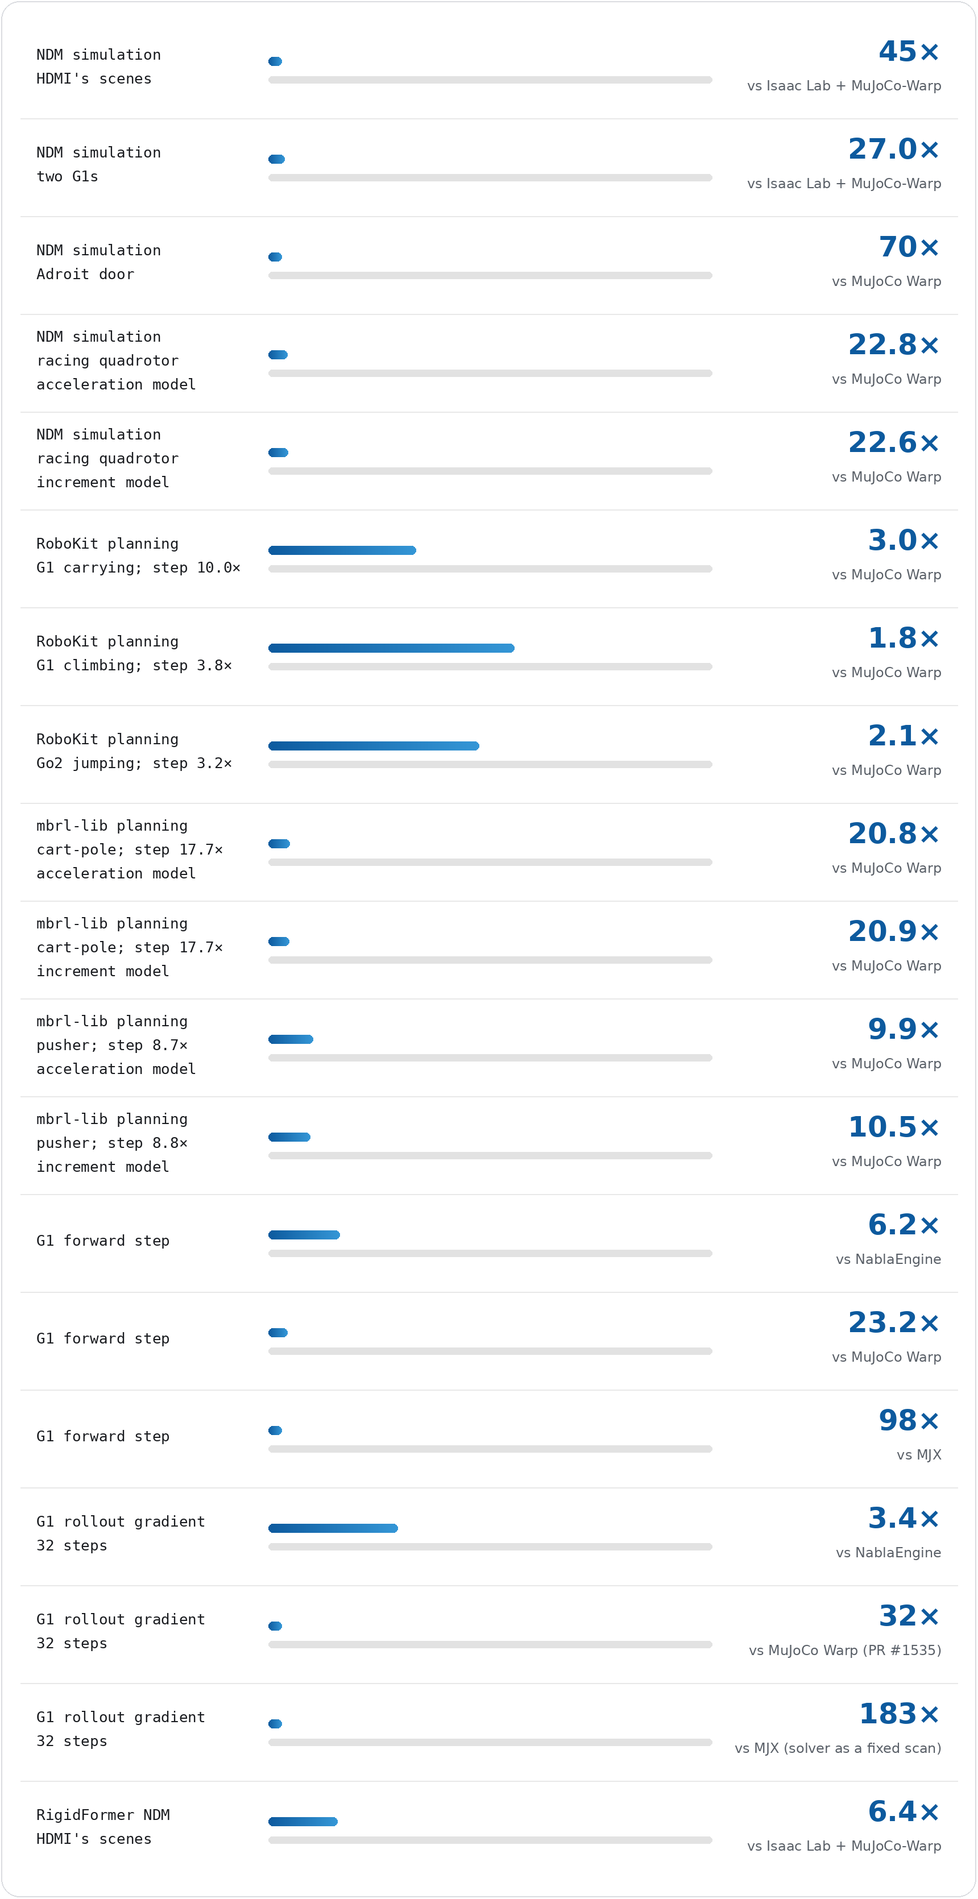
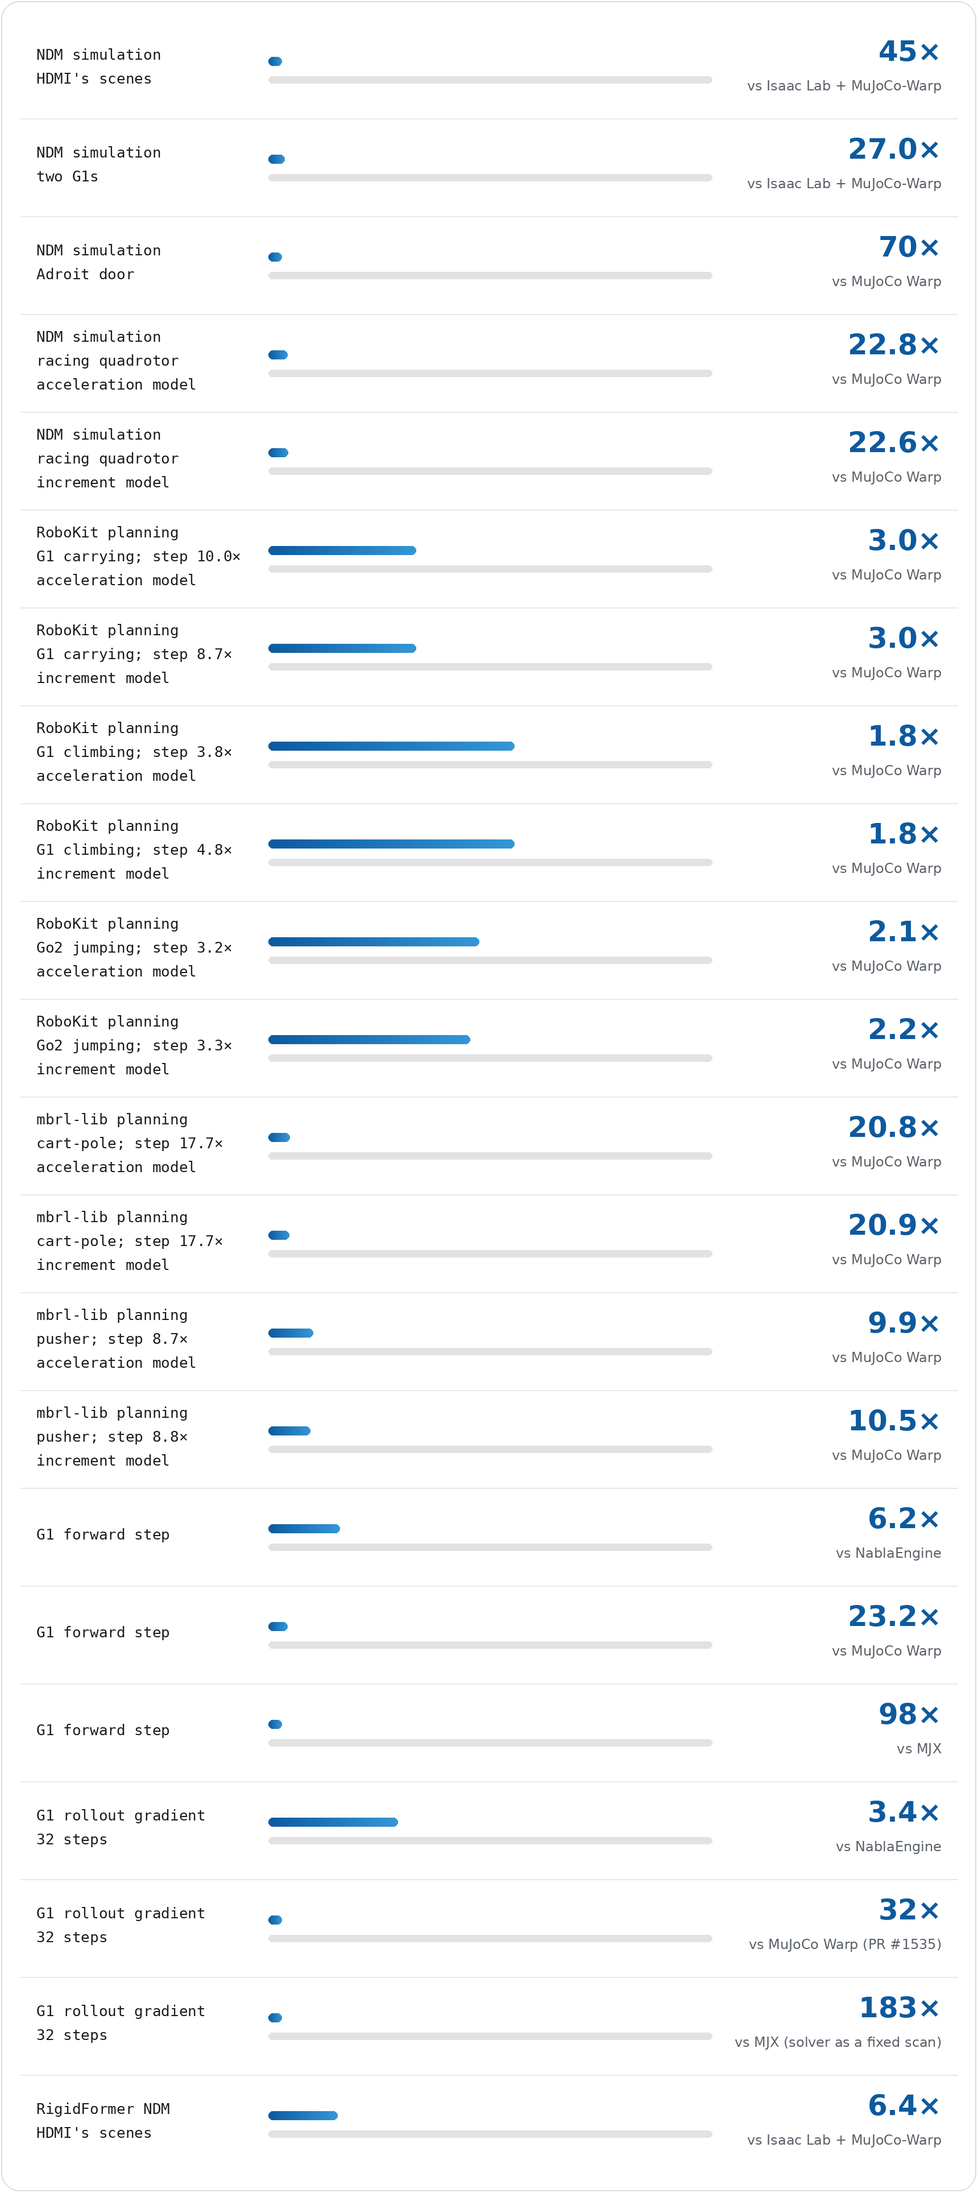
RoboKit: SuperMimic's increment model beside SuperTrack's acceleration model, level (the same recipe and plans: 20 of 20 per task for each, planning within 1 s; the step timed for both); the speed chart with both models' rows; every read listed on the results page

diff --git a/tools/make_speedup_chart.py b/tools/make_speedup_chart.py
@@ -13,8 +13,9 @@ FONT_DIR = "/usr/share/fonts/truetype/dejavu/"
 # but the Adroit door's, at 16,384 worlds, SuperTrack's model as a bf16 copy against MuJoCo Warp (benchmarks/adroit_door/results_a100.md),
 # the racing quadrotor's: the fused step in fp32 with the network as one kernel, on the acceleration and on the increment model, against MuJoCo Warp
 # (benchmarks/quadrotor_racing_tracking/results_a100.md),
-# RoboKit's, whose bars are its examples' whole planning time at the planner's own worlds, the median over twenty plans
-# (planner seeds 0-9, twice), with the simulation step's speedup in the second line (benchmarks/robokit_ndm/results.md), and mbrl-lib's, whose bars
+# RoboKit's, whose bars are its examples' whole planning time at the planner's own worlds on the acceleration and on the
+# increment model, the median over twenty plans (planner seeds 0-9, twice), with the simulation step's speedup in the second
+# line and the model in a third (benchmarks/robokit_ndm/results.md), and mbrl-lib's, whose bars
 # are the planner's time per executed step on the acceleration and on the increment model (timed in one session), the median
 # over three planner seeds, with the step's speedup at 4,096 worlds in the second line and the model in a third, after a
 # newline (benchmarks/mbrl_lib/results.md)
@@ -24,9 +25,12 @@ ROWS = [
     ("NDM simulation", "Adroit door", 69.7, "vs MuJoCo Warp"),
     ("NDM simulation", "racing quadrotor\nacceleration model", 22.8, "vs MuJoCo Warp"),
     ("NDM simulation", "racing quadrotor\nincrement model", 22.6, "vs MuJoCo Warp"),
-    ("RoboKit planning", "G1 carrying; step 10.0×", 3.0, "vs MuJoCo Warp"),
-    ("RoboKit planning", "G1 climbing; step 3.8×", 1.8, "vs MuJoCo Warp"),
-    ("RoboKit planning", "Go2 jumping; step 3.2×", 2.1, "vs MuJoCo Warp"),
+    ("RoboKit planning", "G1 carrying; step 10.0×\nacceleration model", 3.0, "vs MuJoCo Warp"),
+    ("RoboKit planning", "G1 carrying; step 8.7×\nincrement model", 3.0, "vs MuJoCo Warp"),
+    ("RoboKit planning", "G1 climbing; step 3.8×\nacceleration model", 1.8, "vs MuJoCo Warp"),
+    ("RoboKit planning", "G1 climbing; step 4.8×\nincrement model", 1.8, "vs MuJoCo Warp"),
+    ("RoboKit planning", "Go2 jumping; step 3.2×\nacceleration model", 2.1, "vs MuJoCo Warp"),
+    ("RoboKit planning", "Go2 jumping; step 3.3×\nincrement model", 2.2, "vs MuJoCo Warp"),
     ("mbrl-lib planning", "cart-pole; step 17.7×\nacceleration model", 20.8, "vs MuJoCo Warp"),
     ("mbrl-lib planning", "cart-pole; step 17.7×\nincrement model", 20.9, "vs MuJoCo Warp"),
     ("mbrl-lib planning", "pusher; step 8.7×\nacceleration model", 9.9, "vs MuJoCo Warp"),

diff --git a/README.md b/README.md
@@ -66,7 +66,7 @@ MuJoCo model.
 | NDM simulation: the Adroit door ([details](benchmarks/adroit_door/results_a100.md#the-world-model-as-the-simulator)) | world-steps per second at 16,384 worlds: SuperTrack's acceleration model as a bf16 copy, 27.62 M against MuJoCo Warp's 0.396 M (69.7x); SuperMimic's increment model 27.14 M against 0.422 M (64.3x); 1,629x / 1,600x the contributed native MuJoCo collector on eight CPU cores (16,962 world-steps/s). The bf16 step is 64 % / 66 % matrix products, the rest compiled elementwise kernels | one A100 40GB SXM4 |
 | NDM simulation: the racing quadrotor ([details](benchmarks/quadrotor_racing_tracking/results_a100.md#the-world-model-as-the-simulator)) | world-steps per second at 4,096 worlds, the fused step in fp32 (TF32 products) with the network as one kernel: SuperTrack's acceleration model 74.3 M against MuJoCo Warp's 3.26 M (22.8x); SuperMimic's increment model 73.7 M against 3.27 M (22.6x); with the network compiled layer by layer 19.6x / 19.0x. The network is 85 % of the step | one A100 40GB SXM4 |
 | the G1's forward step and the gradient of a 32-step rollout ([details](benchmarks/ndm_speed/results.md)) | SuperTrack's MLP world model against NablaEngine, MuJoCo Warp with the adjoint of its pull request #1535 and MJX, each in its faster setting | one A100 40GB |
-| RoboKit planning ([details](benchmarks/robokit_ndm/results.md)) | the example's whole planning time at the planner's own worlds, the median over twenty plans (planner seeds 0-9, twice); the simulation step's speedup beside the task | one A100 40GB SXM4 |
+| RoboKit planning ([details](benchmarks/robokit_ndm/results.md)) | the example's whole planning time at the planner's own worlds on the acceleration and on the increment model, the median over twenty plans (planner seeds 0-9, twice); the simulation step's speedup beside the task | one A100 40GB SXM4 |
 | mbrl-lib planning ([details](benchmarks/mbrl_lib/results.md)) | the planner's time per executed step on the acceleration and on the increment model, timed in one session, the median over three planner seeds; the step's speedup at 4,096 worlds beside the task | one A100 80GB SXM4 |
 
 The Adroit door: MuJoCo Warp without no-slip and without multi-contact or native CCD, which it refuses with this model's
@@ -103,7 +103,7 @@ the position within 20 mm. Commands: [Recommended settings](#-recommended-settin
 |  | ⏱ time to the target, not engineered | `train_door_full --method supermimic --door-latch-offset 0.3`, the contributed implementation | 99 % of the starts open after **13.1 ± 7.9 min** (seeds 0-2, A100 40GB) |
 | **[Muscles](#muscle-actuated-character)**, MuscleVAE's character | 🎯 most accurate | `muscles-supertrack-rf` (the body-token RigidFormer, width 128, 2 blocks), 3 h on an A100 40GB PCIe | MPJPE **34.9 ± 0.7 mm** in the root frame, episodes ended 0.0004 ± 0.0008 (seeds 1-3); with the MLP, `muscles-supertrack` 38.1 ± 1.0 mm (four tuning rounds to the RigidFormer's nine) |
 |  | 🚀 fastest | not compared yet | |
-| **[NDM in RoboKit's planner](#ndms-in-robokits-planner)**, G1 box carrying / climbing, Go2 jumping, one A100 40GB | ⏱ planning time, not engineered | SuperTrack's acceleration model, MLP, as a bf16 copy | planning **3.0x / 1.8x / 2.1x** faster than on MuJoCo Warp (9 → 3, 7 → 4, 65 → 31 s); **20 of 20** plans pass on each task, MuJoCo Warp's 10 of 10 ([results](benchmarks/robokit_ndm/results.md)) |
+| **[NDM in RoboKit's planner](#ndms-in-robokits-planner)**, G1 box carrying / climbing, Go2 jumping, one A100 40GB | ⏱ planning time, not engineered | SuperTrack's acceleration model and SuperMimic's increment model, MLPs as bf16 copies, level | planning **3.0x / 1.8x / 2.1x** and **3.0x / 1.8x / 2.2x** faster than on MuJoCo Warp (9 → 3 / 3, 7 → 4 / 4, 65 → 31 / 30 s); **20 of 20** plans pass on each task for each, MuJoCo Warp's 10 of 10 ([results](benchmarks/robokit_ndm/results.md)) |
 | **[NDM in mbrl-lib's planner](#ndms-in-mbrl-libs-planner)**, PETS' cart-pole / pusher, one A100 80GB | ⏱ planning time, not engineered | SuperTrack's acceleration model and SuperMimic's increment model, MLPs as bf16 copies, level | planning **20.8x / 9.9x** and **20.9x / 10.5x** faster than on MuJoCo Warp (0.314 → 0.0151 / 0.0150 s, 0.300 → 0.0303 / 0.0286 s a step), 103.8x / 31.3x and 104.3x / 33.2x faster than mbrl-lib's CPU pool; 30 of 30 / 28 of 30 plans at the bar for each ([results](benchmarks/mbrl_lib/results.md)) |
 | **[NDM as the simulator](#adroit-door-tracking)**, the Adroit door, 16,384 worlds on an A100 40GB SXM4 | 🚀 fastest | SuperTrack's acceleration model, MLP, as a bf16 copy | **27.62 M world-steps/s**, 69.7x MuJoCo Warp's 0.396 M and 1,629x the contributed collector on eight CPU cores; SuperMimic's increment model 27.14 M, 64.3x ([results](benchmarks/adroit_door/results_a100.md#the-world-model-as-the-simulator)) |
 | **[NDM as the simulator](#quadrotor-trajectory-tracking)**, the racing quadrotor, 4,096 worlds on an A100 40GB SXM4 | ⏱ throughput, not engineered | SuperTrack's acceleration model and SuperMimic's increment model, MLPs, the fused step in fp32, the network as one kernel | **74.3 M** and **73.7 M world-steps/s**, 22.8x and 22.6x MuJoCo Warp's 3.26 M / 3.27 M; 34.2x / 34.1x at 1,024 worlds, 11.5x at 65,536 ([results](benchmarks/quadrotor_racing_tracking/results_a100.md#the-world-model-as-the-simulator)) |
@@ -170,7 +170,7 @@ What the experiments showed (details under [Ablations](#-ablations) and [Trainin
 - **[2026-11] NDMs in planners:** a world model scores the planner's candidates in place of the physics steps. On an
   A100, three of [RoboKit's](#ndms-in-robokits-planner) examples (G1 box carrying, G1 climbing, Go2 jumping) plan
   1.8-3.0x faster than on MuJoCo Warp, every plan passing, and [mbrl-lib's](#ndms-in-mbrl-libs-planner) cart-pole and
-  pusher (PETS' settings) 20.8-20.9x and 9.9-10.5x faster on either world model.
+  pusher (PETS' settings) 20.8-20.9x and 9.9-10.5x faster, on either world model.
 - **[2026-11] Training speed:** what makes training fast, measured and offered as options: a recipe and systems options
   ([BlinkMimic's](#blinkmimics-options)), multi-GPU layouts ([XMimic's](docs/algorithms/xmimic.md));
   [time to return 0.82](#training-speed), with [NablaMimic](docs/algorithms/nablamimic.md)'s own code timed beside.
@@ -981,22 +981,22 @@ and each plan executes on MuJoCo Warp. Planning time is the simulator's steps pl
 
 | goal | configuration | result |
 |---|---|---|
-| planning time, not engineered | SuperTrack's acceleration model, MLP, as a bf16 copy | planning 3.0x / 1.8x / 2.1x faster than on MuJoCo Warp; 20 of 20 plans pass on each task |
+| planning time, not engineered | SuperTrack's acceleration model and SuperMimic's increment model, MLPs as bf16 copies, level | planning 3.0x / 1.8x / 2.1x and 3.0x / 1.8x / 2.2x faster than on MuJoCo Warp; 20 of 20 plans pass on each task for each |
 
 G1 box carrying / G1 climbing / Go2 jumping; one A100 40GB SXM4, the median over the planner's seeds 0-9 run twice, one fit
-of the world model per task (fit seed 0) ([details](benchmarks/robokit_ndm/results.md)).
+of each world model per task (fit seed 0) ([details](benchmarks/robokit_ndm/results.md)).
 
-**In short:** on SuperTrack's acceleration model the three examples plan 1.8-3.0x faster than on MuJoCo Warp, and every
-plan passes the example's own check.
+**In short:** on either world model the three examples plan 1.8-3.0x faster than on MuJoCo Warp, and every plan passes the
+example's own check; the two are level (their planning times within 1 s).
 
 <p align="center"><img src="docs/media/robokit/grid.webp" alt="RoboKit's G1 box carrying, G1 climbing and Go2 jumping, planned on the world model" width="100%"/></p>
 <p align="center"><sub>In translucent blue, the example's reference: the motion the G1 tracks and the box's, and Go2's foot targets. G1 box carrying tracks an OMOMO clip: for non-commercial illustration only (<a href="NOTICE">see NOTICE</a>).</sub></p>
 
-| task | simulation step | planning time | plans that pass |
+| task | simulation step, SuperTrack's / SuperMimic's model | planning time, SuperTrack's / SuperMimic's model | plans that pass, SuperTrack's / SuperMimic's model |
 |---|---|---|---|
-| G1 box carrying | 1.81 → 0.18 ms (10.0x) | 9 → 3 s (3.0x) | 20 of 20 (MuJoCo Warp 10 of 10) |
-| G1 climbing | 1.32 → 0.35 ms (3.8x) | 7 → 4 s (1.8x) | 20 of 20 (MuJoCo Warp 10 of 10) |
-| Go2 jumping | 0.69 → 0.21 ms (3.2x) | 65 → 31 s (2.1x) | 20 of 20 (MuJoCo Warp 10 of 10) |
+| G1 box carrying | 1.81 → 0.18 / 0.21 ms (10.0x / 8.7x) | 9 → 3 / 3 s (3.0x / 3.0x) | 20 of 20 / 20 of 20 (MuJoCo Warp 10 of 10) |
+| G1 climbing | 1.32 → 0.35 / 0.28 ms (3.8x / 4.8x) | 7 → 4 / 4 s (1.8x / 1.8x) | 20 of 20 / 20 of 20 (MuJoCo Warp 10 of 10) |
+| Go2 jumping | 0.69 / 0.68 → 0.21 / 0.21 ms (3.2x / 3.3x) | 65 → 31 / 30 s (2.1x / 2.2x) | 20 of 20 / 20 of 20 (MuJoCo Warp 10 of 10) |
 
 ### NDMs in mbrl-lib's planner
 

diff --git a/benchmarks/robokit_ndm/results.md b/benchmarks/robokit_ndm/results.md
@@ -2,9 +2,10 @@
 
 [RoboKit](https://github.com/openrobokit/robokit) (at `736f112`, MIT) plans with sampling MPC over batched MuJoCo Warp
 rollouts. Here its planner's simulator is this library's world model of the same MuJoCo model
-(`ndm_gym/worldmodels/mjcf.py`); every plan still executes on MuJoCo Warp. On G1 box carrying, G1 climbing and Go2 jumping,
-planning is 1.8-3.0 times faster, and every plan passes the example's own check: 20 of 20 per task, as MuJoCo Warp's planner
-passes 10 of 10. One A100 40GB SXM4 with nothing else running.
+(`ndm_gym/worldmodels/mjcf.py`), SuperTrack's acceleration model or SuperMimic's increment model, fitted alike; every plan
+still executes on MuJoCo Warp. On G1 box carrying, G1 climbing and Go2 jumping, planning is 1.8-3.0 times faster on either,
+and every plan passes the example's own check: 20 of 20 per task for each, as MuJoCo Warp's planner passes 10 of 10. One
+A100 40GB SXM4 with nothing else running.
 
 <table>
 <tr>
@@ -16,13 +17,13 @@ passes 10 of 10. One A100 40GB SXM4 with nothing else running.
 <p align="center"><sub>The world model in the planner, MuJoCo Warp executing; planner seed 0; in translucent blue, the example's reference and Go2's foot targets.<br>G1 box carrying tracks an OMOMO clip: for non-commercial illustration only (<a href="../../NOTICE">see NOTICE</a>).</sub></p>
 
 <p align="center"><img src="../../docs/media/robokit_speedups.webp" alt="The world model's simulation step and planning time against MuJoCo Warp's" width="760"/></p>
-<p align="center"><sub>Bars: time against MuJoCo Warp's at full width, at the planner's own worlds. Made by <code>tools/make_robokit_chart.py --tasks g1_carry g1_climb go2_jump --no_outcomes</code> from <code>benchmarks/robokit_ndm/summarize.py</code>'s json.</sub></p>
+<p align="center"><sub>Bars: SuperTrack's model's time against MuJoCo Warp's at full width, at the planner's own worlds (SuperMimic's in the table). Made by <code>tools/make_robokit_chart.py --tasks g1_carry g1_climb go2_jump --no_outcomes</code> from <code>benchmarks/robokit_ndm/summarize.py</code>'s json.</sub></p>
 
-| Task | Simulation step, MuJoCo Warp → world model | Planning time, MuJoCo Warp → world model | Plans that pass, world model (MuJoCo Warp) |
+| Task | Simulation step, MuJoCo Warp → SuperTrack's / SuperMimic's model | Planning time, MuJoCo Warp → SuperTrack's / SuperMimic's model | Plans that pass, SuperTrack's / SuperMimic's model (MuJoCo Warp) |
 |---|---|---|---|
-| G1 box carrying | 1.81 → 0.18 ms (10.0x), 2,047 worlds | 9 → 3 s (3.0x) | 20 of 20 (10 of 10) |
-| G1 climbing | 1.32 → 0.35 ms (3.8x), 2,047 worlds | 7 → 4 s (1.8x) | 20 of 20 (10 of 10) |
-| Go2 jumping | 0.69 → 0.21 ms (3.2x), 1,228 worlds | 65 → 31 s (2.1x) | 20 of 20 (10 of 10) |
+| G1 box carrying | 1.81 → 0.18 / 0.21 ms (10.0x / 8.7x), 2,047 worlds | 9 → 3 / 3 s (3.0x / 3.0x) | 20 of 20 / 20 of 20 (10 of 10) |
+| G1 climbing | 1.32 → 0.35 / 0.28 ms (3.8x / 4.8x), 2,047 worlds | 7 → 4 / 4 s (1.8x / 1.8x) | 20 of 20 / 20 of 20 (10 of 10) |
+| Go2 jumping | 0.69 / 0.68 → 0.21 / 0.21 ms (3.2x / 3.3x), 1,228 worlds | 65 → 31 / 30 s (2.1x / 2.2x) | 20 of 20 / 20 of 20 (10 of 10) |
 
 ## Setup
 
@@ -30,18 +31,20 @@ passes 10 of 10. One A100 40GB SXM4 with nothing else running.
 - **Data.** Each example ran with its simulator recording 64 of its rollout worlds and the executed trajectory: G1 climbing and
   Go2 jumping three times (planner seeds 0-2), seeds 0 and 1 training; G1 box carrying nine times (seeds 0-8), all but seed 2
   training. Seed 2 is held out.
-- **World model.** SuperTrack's acceleration model with LayerNorm: an MLP of 3 x 1024, 20,000 updates of 512 windows of 8
-  steps, one fit per task (fit seed 0). Its held-out error at the planning horizon (40 steps of 20 ms for the G1s, 20 for
-  Go2), in units of one true step's spread (`fit_mjcf`'s `norm`): 0.555 (G1 box carrying), 0.531 (G1 climbing), 0.0283
-  (Go2 jumping).
+- **World models.** SuperTrack's acceleration model and SuperMimic's increment model, each with LayerNorm: an MLP of
+  3 x 1024, 20,000 updates of 512 windows of 8 steps on the same recordings, one fit per task and model (fit seed 0). Their
+  held-out errors at the planning horizon (40 steps of 20 ms for the G1s, 20 for Go2), in units of one true step's spread
+  (`fit_mjcf`'s `norm`), SuperTrack's / SuperMimic's: 0.555 / 0.643 (G1 box carrying), 0.531 / 0.619 (G1 climbing), 0.0283 /
+  0.0297 (Go2 jumping).
 - **Simulation step.** MuJoCo Warp's step as RoboKit runs it (replayed as a CUDA graph) against the world model's step inside
   the planner's simulator (`NdmSim`: the world model in bf16 as one CUDA graph, plus the MuJoCo Warp stages the task's costs
   read: none for G1 box carrying; kinematics and sensor positions for G1 climbing, and also collisions for Go2). Both start
   from the held-out run's executed states, copied back every horizon as the planner restarts its rollouts; 20 warm-up and 200
-  timed steps, the median of three; each task's planning fit.
-  - At 8,192 worlds: G1 box carrying 4.52 → 0.47 ms (9.5x), G1 climbing 3.14 → 0.64 ms (4.9x), Go2 jumping 1.38 → 0.60 ms (2.3x).
-  - The network alone takes 0.18 ms (G1 box carrying) and 0.21 ms (G1 climbing), at 2,047 worlds, and 0.15 ms (Go2 jumping,
-    1,228 worlds).
+  timed steps, the median of three; each task's planning fits, with MuJoCo Warp's step timed again beside each model's.
+  - At 8,192 worlds, SuperTrack's / SuperMimic's model: G1 box carrying 4.52 → 0.47 / 4.53 → 0.48 ms (9.5x / 9.3x), G1
+    climbing 3.14 → 0.64 / 3.13 → 0.65 ms (4.9x / 4.8x), Go2 jumping 1.38 → 0.60 / 0.60 ms (2.3x / 2.3x).
+  - The network alone, SuperTrack's / SuperMimic's: 0.18 / 0.23 ms (G1 box carrying) and 0.21 / 0.17 ms (G1 climbing), at
+    2,047 worlds, and 0.15 / 0.12 ms (Go2 jumping, 1,228 worlds).
 - **Planning.** The example's own planning time for its whole motion, the median over twenty plans (the planner's seeds 0-9,
   twice; each within 1 s of it); MuJoCo Warp's planner with seeds 0-9 once. With a simulator whose step does nothing,
   planning takes 2 s (G1 box carrying and G1 climbing) and 9 s (Go2 jumping), and the plans fail: the planner's own share,
@@ -56,15 +59,20 @@ passes 10 of 10. One A100 40GB SXM4 with nothing else running.
 
 Planner seeds 0-9, twice (20 plans) on the world model; MuJoCo Warp's planner, seeds 0-9 once.
 
-| Task | World model | MuJoCo Warp |
-|---|---|---|
-| G1 box carrying | 20 of 20; the box 1.8-9.2 cm from its goal | 10 of 10; 0.6-3.3 cm |
-| G1 climbing | 20 of 20; the final pelvis at 1.47 m, the lowest at 0.89 m | 10 of 10; the same |
-| Go2 jumping | 20 of 20; landing score 1.00, the torso tilted at most 17 degrees | 10 of 10; 1.00, at most 13 degrees |
+| Task | SuperTrack's model | SuperMimic's model | MuJoCo Warp |
+|---|---|---|---|
+| G1 box carrying | 20 of 20; the box 1.8-9.2 cm from its goal | 20 of 20; 1.1-8.5 cm | 10 of 10; 0.6-3.3 cm |
+| G1 climbing | 20 of 20; the final pelvis at 1.47 m, the lowest at 0.89 m | 20 of 20; the same | 10 of 10; the same |
+| Go2 jumping | 20 of 20; landing score 1.00, the torso tilted at most 17 degrees | 20 of 20; 1.00, at most 18 degrees | 10 of 10; 1.00, at most 13 degrees |
 
-On G1 box carrying, a second fit was also read. It was fitted from this one on one round of its own planner's draws: sixteen
-runs of the planner on this fit, whose candidates were recorded in MuJoCo Warp, then 10,000 updates on those runs and the
-eight seeds. It passes 20 of 20 too, every box within 2.8 cm of its goal.
+On G1 box carrying, a second fit of each model was also read. Each was fitted from its model's fit on one round of its own
+planner's draws: sixteen runs of the planner on the fit, whose candidates were recorded in MuJoCo Warp, then 10,000 updates
+on those runs and the eight seeds. On this code both pass 20 of 20: SuperTrack's boxes within 2.8 cm of the goal,
+SuperMimic's 0.7-9.3 cm.
+
+The same fits were also planned on a development revision of the planner code, which this repository does not hold. The
+eight-seed fits passed 20 of 20 each (boxes within 9.8 and 9.0 cm). The second fits passed 20 of 20 (SuperTrack's, within
+3.6 cm) and 17 of 20 (SuperMimic's: three boxes 11.3-13.7 cm from the goal).
 
 ## Reproducing
 

diff --git a/docs/tasks/robokit.md b/docs/tasks/robokit.md
@@ -12,15 +12,15 @@ The world model in the planner, MuJoCo Warp executing; in translucent blue, the 
 the box's) and Go2's foot targets. G1 box carrying tracks an OMOMO clip: for non-commercial illustration only (see the
 repository's NOTICE).
 
-| example | simulation step | planning time | plans that pass |
+| example | simulation step, SuperTrack's / SuperMimic's model | planning time, SuperTrack's / SuperMimic's model | plans that pass, SuperTrack's / SuperMimic's model |
 |---|---|---|---|
-| G1 box carrying | 1.81 → 0.18 ms (10.0x) | 9 → 3 s (3.0x) | 20 of 20 (MuJoCo Warp 10 of 10) |
-| G1 climbing | 1.32 → 0.35 ms (3.8x) | 7 → 4 s (1.8x) | 20 of 20 (MuJoCo Warp 10 of 10) |
-| Go2 jumping | 0.69 → 0.21 ms (3.2x) | 65 → 31 s (2.1x) | 20 of 20 (MuJoCo Warp 10 of 10) |
+| G1 box carrying | 1.81 → 0.18 / 0.21 ms (10.0x / 8.7x) | 9 → 3 / 3 s (3.0x / 3.0x) | 20 of 20 / 20 of 20 (MuJoCo Warp 10 of 10) |
+| G1 climbing | 1.32 → 0.35 / 0.28 ms (3.8x / 4.8x) | 7 → 4 / 4 s (1.8x / 1.8x) | 20 of 20 / 20 of 20 (MuJoCo Warp 10 of 10) |
+| Go2 jumping | 0.69 / 0.68 → 0.21 / 0.21 ms (3.2x / 3.3x) | 65 → 31 / 30 s (2.1x / 2.2x) | 20 of 20 / 20 of 20 (MuJoCo Warp 10 of 10) |
 
 One A100 40GB SXM4, the planner's own worlds (2,047 for the G1s, 1,228 for Go2), the median over twenty plans (the planner's
 seeds 0-9, twice); each plan read by the example's own check;
-SuperTrack's acceleration model, one fit per task (fit seed 0). The method and every command are in the
+SuperTrack's acceleration model and SuperMimic's increment model, one fit per task and model (fit seed 0). The method and every command are in the
 [results](https://github.com/Frank-ZY-Dou/ndm-gym/blob/main/benchmarks/robokit_ndm/results.md).
 
 ## Setup
